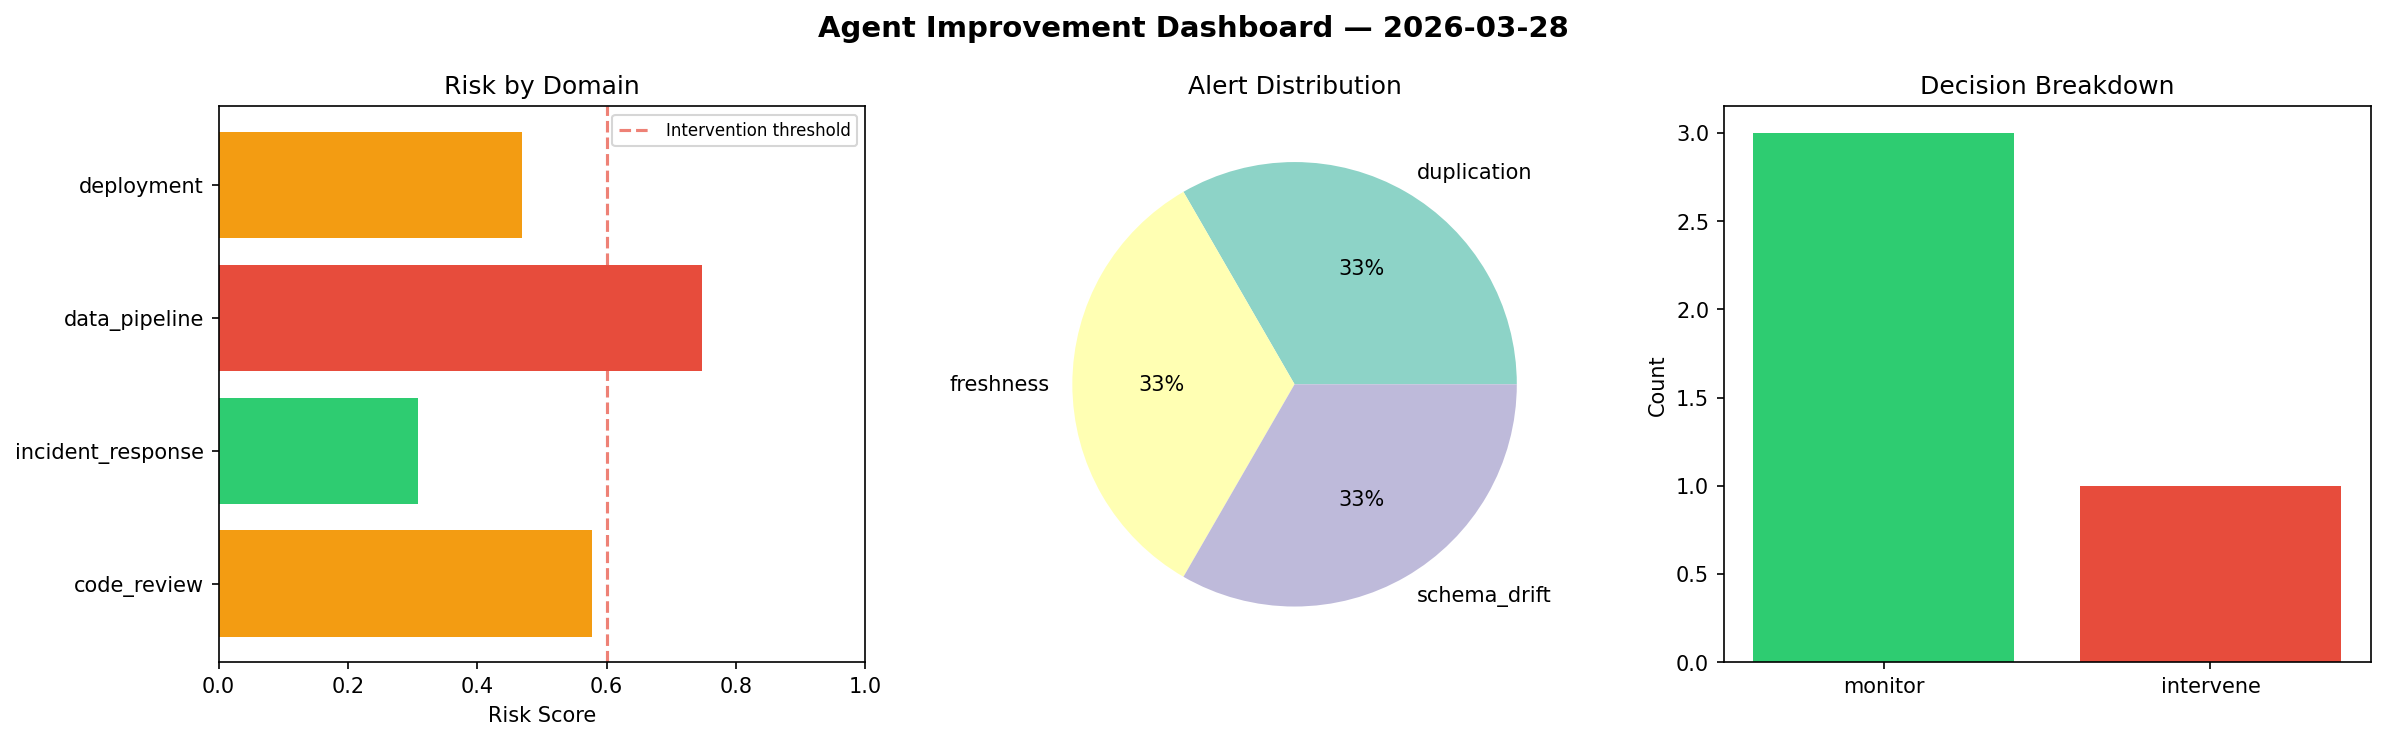
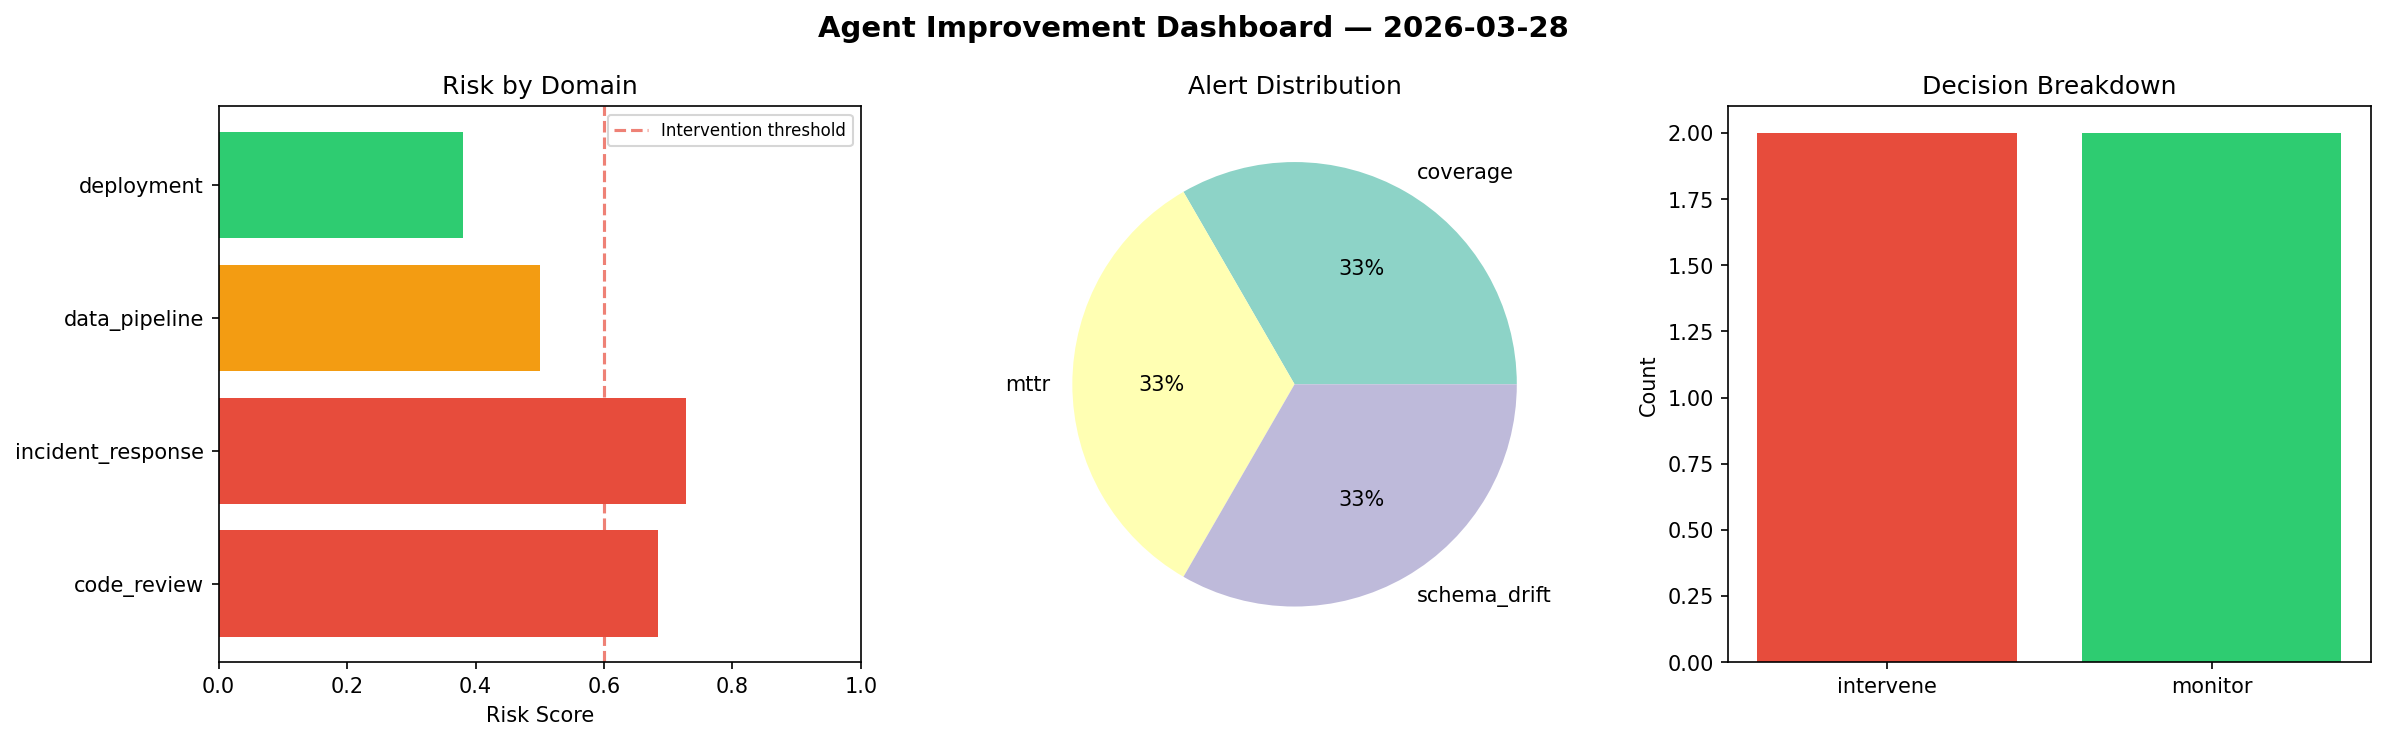
agent-improvement: daily cycle 2026-03-28T08:57

diff --git a/logs/2026-03-28.md b/logs/2026-03-28.md
@@ -1,6 +1,6 @@
 # Agent Improvement Report — 2026-03-28
 
-**Cycle ID:** `78bbe3bc` | **Avg Risk:** 0.5255 | **Interventions:** 1/4
+**Cycle ID:** `7fb0634a` | **Avg Risk:** 0.573 | **Interventions:** 2/4
 
 ![Dashboard](2026-03-28_dashboard.png)
 
@@ -10,18 +10,18 @@
 
 | Domain | Risk Score | Decision | Alerts |
 |--------|-----------|----------|--------|
-| code_review | 0.5772 | monitor | duplication |
-| incident_response | 0.3084 | monitor | none |
-| data_pipeline | 0.747 | intervene | freshness, schema_drift |
-| deployment | 0.4693 | monitor | none |
+| code_review | 0.6835 | intervene | coverage |
+| incident_response | 0.7274 | intervene | mttr |
+| data_pipeline | 0.5009 | monitor | schema_drift |
+| deployment | 0.3802 | monitor | none |
 
 ## Delta vs Yesterday
 
 | Domain | Today | Yesterday | Change |
 |--------|-------|-----------|--------|
-| code_review | 0.5772 | 0.6242 | 📉 -7.5% |
-| incident_response | 0.3084 | 0.6123 | 📉 -49.6% |
-| data_pipeline | 0.747 | 0.4755 | 📈 57.1% |
-| deployment | 0.4693 | 0.6437 | 📉 -27.1% |
+| code_review | 0.6835 | 0.6242 | 📈 9.5% |
+| incident_response | 0.7274 | 0.6123 | 📈 18.8% |
+| data_pipeline | 0.5009 | 0.4755 | 📈 5.3% |
+| deployment | 0.3802 | 0.6437 | 📉 -40.9% |
 
 **Refinement:** `{'adjustment': 'maintain', 'trend': 'improving', 'window': 4}`
